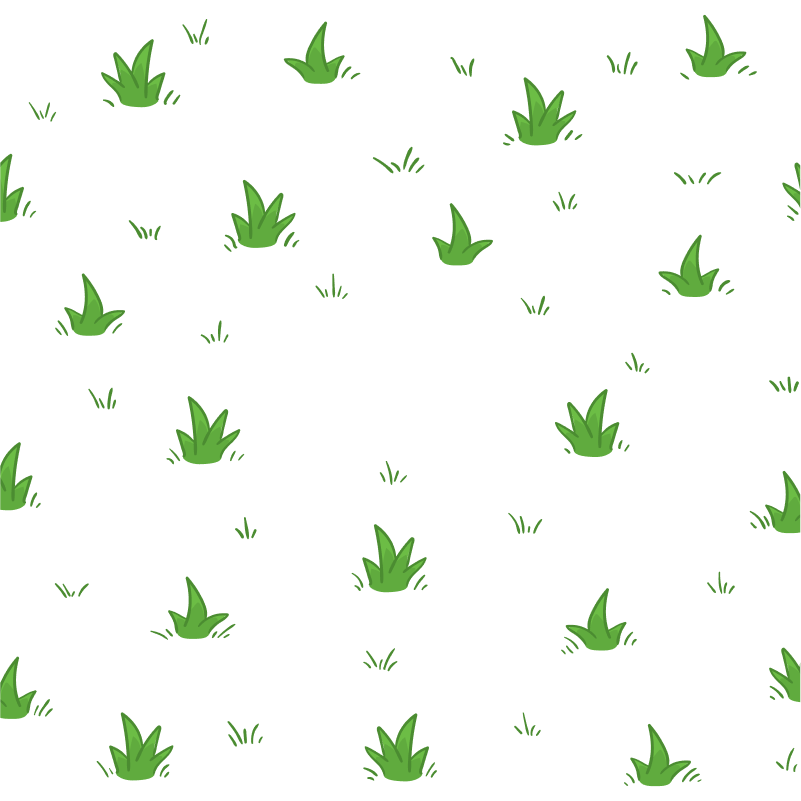
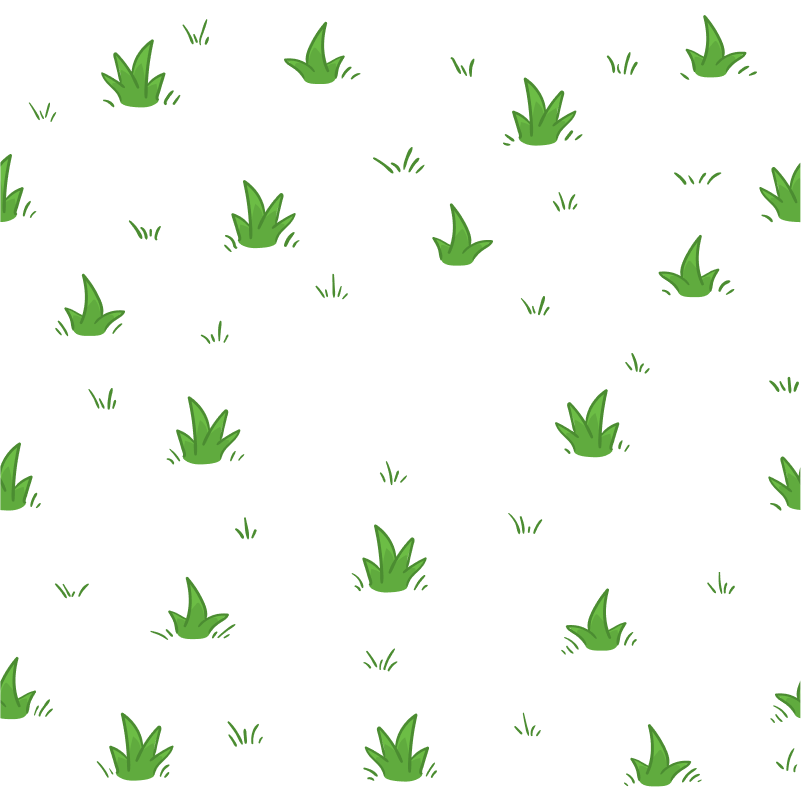
add grass

diff --git a/app/fe/src/components/background/index.tsx b/app/fe/src/components/background/index.tsx
@@ -1,0 +1,74 @@
+import { CSSProperties, memo, useRef } from "react";
+import { BackgroundProps, ReactFlowState, useStore } from "@xyflow/react";
+
+const selector = (s: ReactFlowState) => ({
+  transform: s.transform,
+  patternId: `pattern-${s.rfId}`,
+});
+
+function BackgroundComponent({
+  id,
+  gap = 400,
+  offset = 0,
+  color = "#000", // Default color to ensure visibility
+  bgColor = "#fff",
+  style,
+  className,
+  patternClassName,
+}: BackgroundProps) {
+  const ref = useRef<SVGSVGElement>(null);
+  const { transform, patternId } = useStore(selector);
+  const gapXY: [number, number] = Array.isArray(gap) ? gap : [gap, gap];
+  const scaledGap: [number, number] = [gapXY[0] * transform[2] || 1, gapXY[1] * transform[2] || 1];
+  const offsetXY: [number, number] = Array.isArray(offset) ? offset : [offset, offset];
+  const scaledOffset: [number, number] = [offsetXY[0] * transform[2] || 1, offsetXY[1] * transform[2] || 1];
+  const _patternId = `${patternId}${id ? id : ""}`;
+
+  console.log("scaledGap[1]", scaledGap[1]);
+  console.log("scaledGap[0]", scaledGap[0]);
+
+  return (
+    <svg
+      ref={ref}
+      className={`react-flow__background ${className}`}
+      data-testid="rf__background"
+      style={
+        {
+          "position": "absolute",
+          "width": "100%",
+          "height": "100%",
+          "top": 0,
+          "left": 0,
+          "--xy-background-color-props": bgColor,
+          "--xy-background-pattern-color-props": color,
+          ...style,
+        } as CSSProperties
+      }
+    >
+      <pattern
+        height={scaledGap[1]}
+        id={_patternId}
+        // patternTransform={`translate(-${scaledOffset[0]},-${scaledOffset[1]})`}
+        patternUnits="userSpaceOnUse"
+        width={scaledGap[0]}
+        x={transform[0] % scaledGap[0]}
+        y={transform[1] % scaledGap[1]}
+      >
+        <image
+          className={patternClassName || "react-flow__background-pattern"}
+          height={scaledGap[1]}
+          href="./assets/bgs/grass.png"
+          width={scaledGap[0]}
+          x="0"
+          y="0"
+        />
+      </pattern>
+
+      <rect fill={`url(#${_patternId})`} height="100%" width="100%" x="0" y="0" />
+    </svg>
+  );
+}
+
+BackgroundComponent.displayName = "Background";
+
+export const CustomBackground = memo(BackgroundComponent);

diff --git a/app/fe/src/app.tsx b/app/fe/src/app.tsx
@@ -12,12 +12,13 @@ import { useOnConnect } from "./hooks/use-on-connect.ts";
 import { useCraftingManager } from "./hooks/use-crafting-manager.ts";
 import useStore from "~/store/use-store.ts";
 import { MakeChoice } from "~/components/make-choice/make-choice.tsx";
-import { INIT_NODES } from "~/constants";
+import { INIT_NODES, MAP_SIZE_WIDTH } from "~/constants";
 import { Talk } from "~/components/talk";
 import { ConnectionLine } from "~/components/connection-line/connection-line.tsx";
 import { useCollisionManager } from "~/hooks/use-collision-manager.ts";
 import { GameNode } from "@pelican/constants";
 import { BorderNode } from "~/components/border-node";
+import { CustomBackground } from "~/components/background";
 
 const nodeTypes = { node: CustomNode, border: BorderNode };
 const edgeTypes = {
@@ -82,7 +83,7 @@ function App() {
   }, [companionId, items.length, setIsOpen]);
 
   return (
-    <div className="app">
+    <div className="app" style={{ maxWidth: `${MAP_SIZE_WIDTH}px` }}>
       {companionId !== undefined && <Talk companionId={companionId} />}
       {items.length > 0 && <MakeChoice />}
       <div className="node-sandbox">
@@ -127,7 +128,7 @@ function App() {
           onReconnectEnd={onReconnectEnd}
           onReconnectStart={onReconnectStart}
         >
-          <Background />
+          <CustomBackground bgColor={"#87C44F"} className="bg" />
           <Controls />
         </ReactFlow>
       </div>

diff --git a/app/fe/src/css/index.css b/app/fe/src/css/index.css
@@ -2,6 +2,7 @@
     --almost-black: #242424;
     --almost-white: #f9f9f9;
     --green: #00E175;
+    --grass-green: #87C44F;
     --yellow: #ffc900;
     --orange: #ffb600;
     --blue: #00a6ff;
@@ -32,7 +33,9 @@ body {
     place-items: center;
     min-width: 320px;
     min-height: 100vh;
-    background-color: var(--yellow);
+    /*background-color: var(--yellow);*/
+    /*background-color: var(--grass-green);*/
+    background-color: black;
 }
 
 .img {

diff --git a/app/fe/src/css/app.scss b/app/fe/src/css/app.scss
@@ -5,13 +5,13 @@
 #root {
   height: 100vh;
   margin: 0 auto;
-  //padding: 2rem;
   text-align: center;
-  background-color: white;
+  display: flex;
+  justify-content: center;
 }
 
 .wrapper {
-  max-width: calc(100vw - 80px);
+  //max-width: calc(100vw - 80px);
 }
 
 .input {
@@ -31,6 +31,8 @@
   justify-content: center;
   flex-direction: column;
   height: calc(100vh - 4rem);
+  flex-shrink: 0;
+  flex-grow: 1;
 }
 
 .node-sandbox {
